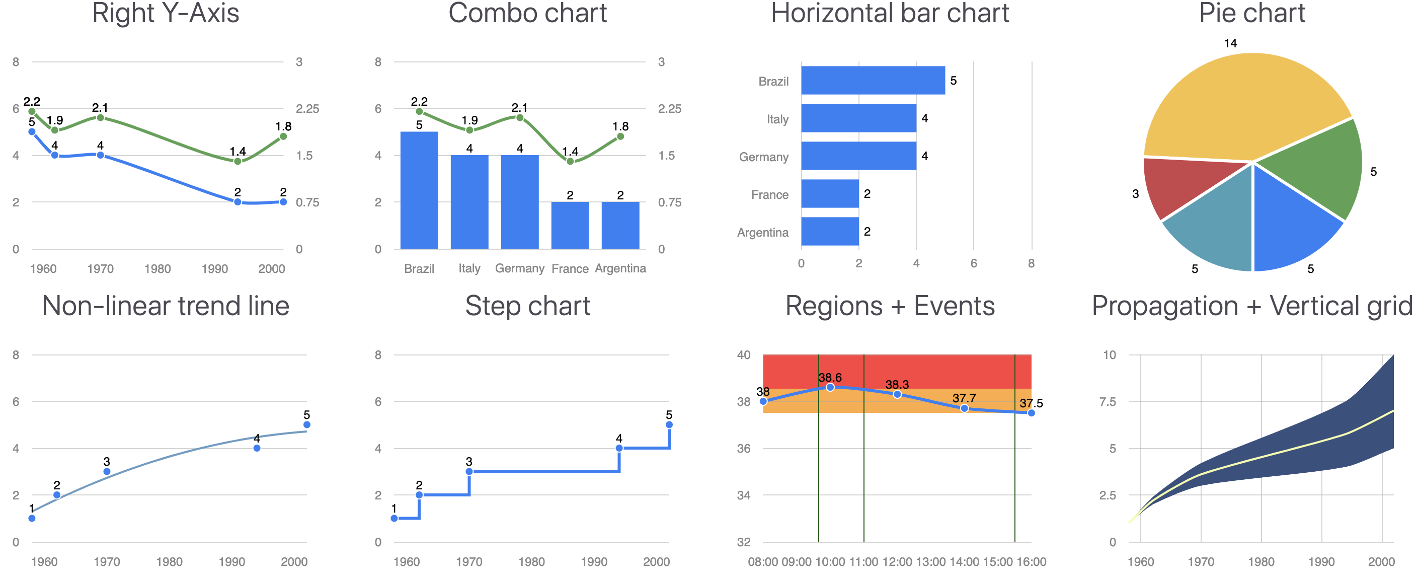
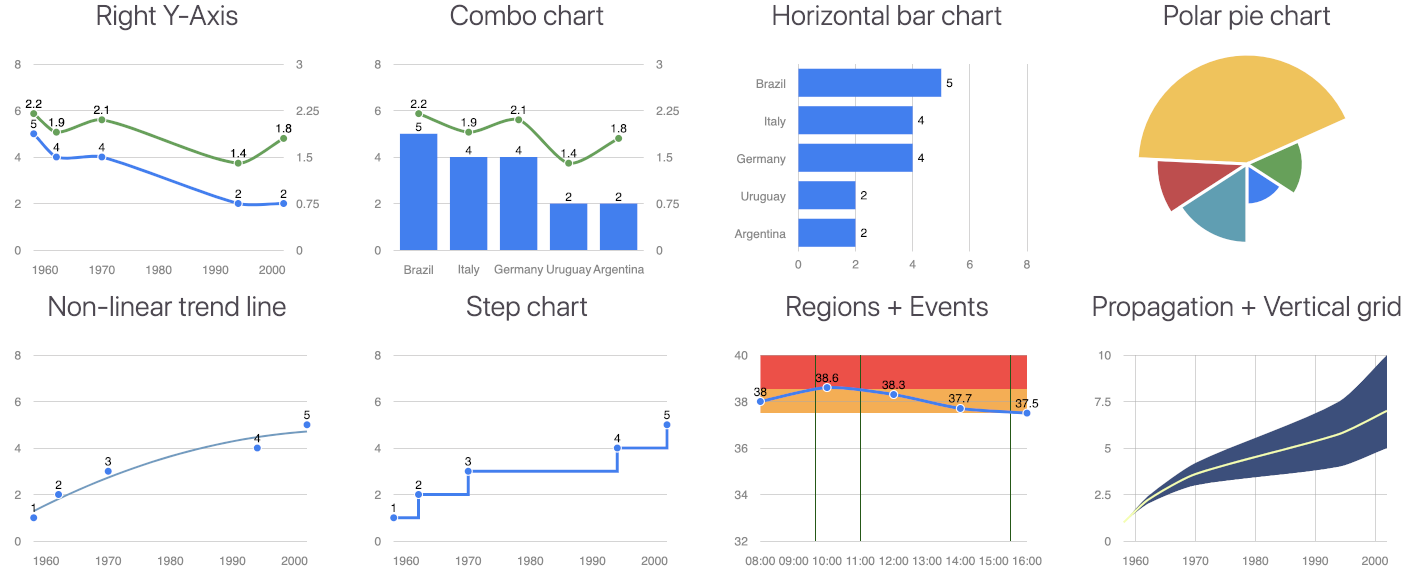
doc: update the picture for example

diff --git a/examples/image.html b/examples/image.html
@@ -43,7 +43,7 @@
             <div id='chart_hist_2' class='chart_morris'></div>
           </div>
           <div class='col-md-3 col-sm-12 text-center'>
-            <h3>Pie chart</h3>
+            <h3>Polar pie chart</h3>
             <div id='chart_pie_3' class='chart_morris'></div>
             <div id='chart_pie_3_legend'></div>
           </div>
@@ -174,19 +174,19 @@
     });
 
     pie_data = [
-        {label: 'Africa', value: 5 },
-        {label: 'Asia', value: 5 },
-        {label: 'Europe', value: 14 },
-        {label: 'North America', value: 3 },
-        {label: 'South America', value: 5 }
+        {label: 'Africa', value: 5, ratio: 0.1 },
+        {label: 'Asia', value: 5, ratio: 0.3 },
+        {label: 'Europe', value: 14, ratio: 1 },
+        {label: 'North America', value: 3, ratio: 0.75 },
+        {label: 'South America', value: 5, ratio: 0.6 }
       ];
 
     Morris.Donut({
       element: 'chart_pie_3',
       data: pie_data,
       donutType: 'pie',
-      dataLabels: true,
-      dataLabelsPosition: 'outside'
+      dataLabels: false,
+      dataLabelsPosition: 'inside'
     });
 
     Morris.Area({

diff --git a/examples/index.html b/examples/index.html
@@ -152,7 +152,7 @@
 
   <script src='./lib/raphael.min.js' crossorigin='anonymous'></script>
   <script src='./lib/regression.js' crossorigin='anonymous'></script>
-  <script src='../morris.js' crossorigin='anonymous'></script>
+  <script src='../dist/morris.js' crossorigin='anonymous'></script>
 
   <script>
     Morris.Line({
